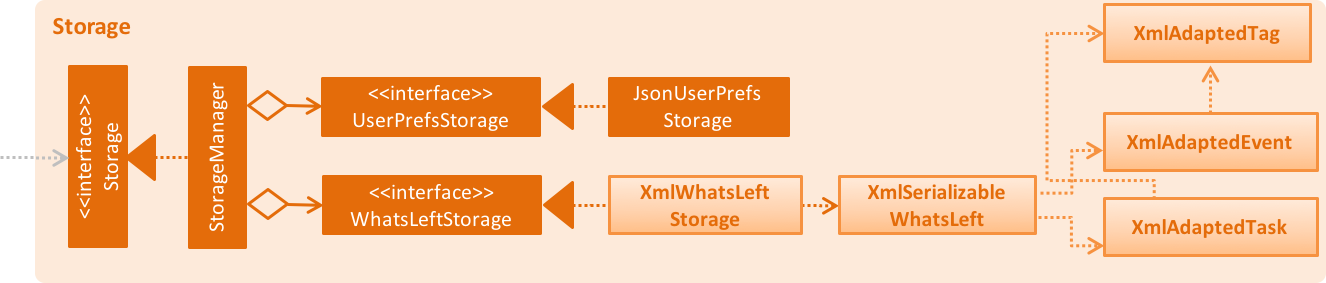
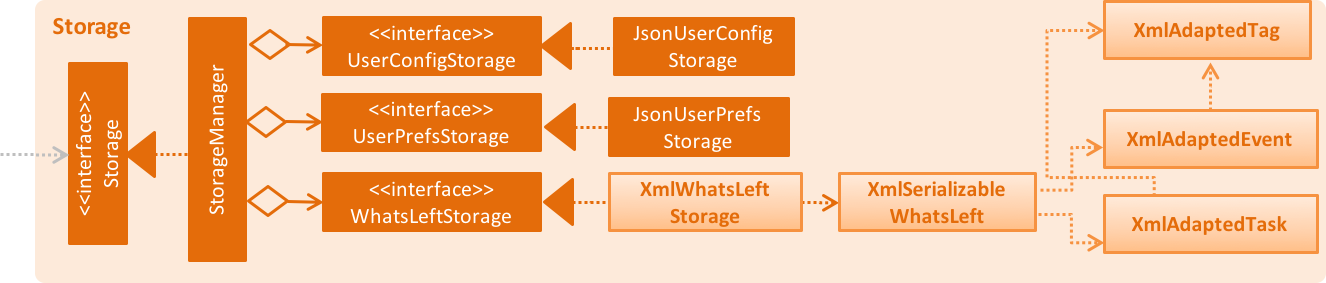
Apply Facade principle to UserConfigStorage component of Storage 	- Hide it behind StorageManager class

diff --git a/src/main/java/seedu/whatsleft/storage/StorageManager.java b/src/main/java/seedu/whatsleft/storage/StorageManager.java
@@ -7,6 +7,7 @@ import java.util.logging.Logger;
 import com.google.common.eventbus.Subscribe;
 
 import seedu.whatsleft.commons.core.ComponentManager;
+import seedu.whatsleft.commons.core.Config;
 import seedu.whatsleft.commons.core.LogsCenter;
 import seedu.whatsleft.commons.events.model.ConfigChangedEvent;
 import seedu.whatsleft.commons.events.model.WhatsLeftChangedEvent;
@@ -23,15 +24,19 @@ public class StorageManager extends ComponentManager implements Storage {
     private static final Logger logger = LogsCenter.getLogger(StorageManager.class);
     private WhatsLeftStorage whatsLeftStorage;
     private UserPrefsStorage userPrefsStorage;
+    private UserConfigStorage userConfigStorage;
 
-    public StorageManager(WhatsLeftStorage whatsLeftStorage, UserPrefsStorage userPrefsStorage) {
+    public StorageManager(WhatsLeftStorage whatsLeftStorage, UserPrefsStorage userPrefsStorage,
+            UserConfigStorage userConfigStorage) {
         super();
         this.whatsLeftStorage = whatsLeftStorage;
         this.userPrefsStorage = userPrefsStorage;
+        this.userConfigStorage = userConfigStorage;
     }
 
-    public StorageManager(String whatsLeftFilePath, String userPrefsFilePath) {
-        this(new XmlWhatsLeftStorage(whatsLeftFilePath), new JsonUserPrefsStorage(userPrefsFilePath));
+    public StorageManager(String whatsLeftFilePath, String userPrefsFilePath, String userConfigStorage) {
+        this(new XmlWhatsLeftStorage(whatsLeftFilePath), new JsonUserPrefsStorage(userPrefsFilePath),
+                new JsonUserConfigStorage(userConfigStorage));
     }
 
     // ================ UserPrefs methods ==============================
@@ -96,5 +101,15 @@ public class StorageManager extends ComponentManager implements Storage {
         String newLocation = cce.data.getWhatsLeftFilePath();
         logger.info(LogsCenter.getEventHandlingLogMessage(cce, "Setting save location to " + newLocation));
         setWhatsLeftFilePath(newLocation);
+    }
+    // ================ WhatsLeft methods ==============================
+    @Override
+    public Optional<Config> readUserConfig() throws DataConversionException, IOException {
+        return userConfigStorage.readUserConfig();
+    }
+
+    @Override
+    public void saveUserConfig(Config config) throws IOException {
+        userConfigStorage.saveUserConfig(config);
     }
 }

diff --git a/src/main/java/seedu/whatsleft/logic/commands/ReadCommand.java b/src/main/java/seedu/whatsleft/logic/commands/ReadCommand.java
@@ -14,7 +14,6 @@ import seedu.whatsleft.commons.exceptions.DataConversionException;
 import seedu.whatsleft.logic.commands.exceptions.CommandException;
 import seedu.whatsleft.model.ReadOnlyWhatsLeft;
 import seedu.whatsleft.model.WhatsLeft;
-import seedu.whatsleft.storage.JsonUserConfigStorage;
 import seedu.whatsleft.storage.Storage;
 
 //@@author A0121668A
@@ -40,11 +39,9 @@ public class ReadCommand extends Command {
     private String newFilePath;
     private static Config config;
     private static Storage storage;
-    private static JsonUserConfigStorage jsonUserConfigStorage;
 
     public ReadCommand(String filePath) {
         this.newFilePath = filePath;
-        jsonUserConfigStorage = new JsonUserConfigStorage(Config.DEFAULT_CONFIG_FILE);
     }
 
     public static void setStorage(Storage storageToSet) {
@@ -101,7 +98,7 @@ public class ReadCommand extends Command {
      */
     private void saveConfig() throws CommandException {
         try {
-            jsonUserConfigStorage.saveUserConfig(config);
+            storage.saveUserConfig(config);
         } catch (IOException e) {
             throw new CommandException(MESSAGE_SAVE_CONFIG_ERROR);
         }

diff --git a/src/main/java/seedu/whatsleft/logic/commands/SaveCommand.java b/src/main/java/seedu/whatsleft/logic/commands/SaveCommand.java
@@ -8,7 +8,6 @@ import seedu.whatsleft.commons.core.Messages;
 import seedu.whatsleft.commons.events.model.ConfigChangedEvent;
 import seedu.whatsleft.logic.commands.exceptions.CommandException;
 import seedu.whatsleft.model.ReadOnlyWhatsLeft;
-import seedu.whatsleft.storage.JsonUserConfigStorage;
 import seedu.whatsleft.storage.Storage;
 
 //@@author A0121668A
@@ -30,11 +29,9 @@ public class SaveCommand extends Command {
     private String newFilePath;
     private static Config config;
     private static Storage storage;
-    private static JsonUserConfigStorage jsonUserConfigStorage;
 
     public SaveCommand(String filePath) {
         this.newFilePath = filePath;
-        jsonUserConfigStorage = new JsonUserConfigStorage(Config.DEFAULT_CONFIG_FILE);
     }
 
     public static void setStorage(Storage storageToSet) {
@@ -65,7 +62,7 @@ public class SaveCommand extends Command {
 
     private void saveConfig() throws CommandException {
         try {
-            jsonUserConfigStorage.saveUserConfig(config);
+            storage.saveUserConfig(config);
         } catch (IOException e) {
             throw new CommandException(MESSAGE_SAVE_CONFIG_ERROR);
         }

diff --git a/src/test/java/seedu/whatsleft/storage/StorageManagerTest.java b/src/test/java/seedu/whatsleft/storage/StorageManagerTest.java
@@ -29,7 +29,7 @@ public class StorageManagerTest {
 
     @Before
     public void setUp() {
-        storageManager = new StorageManager(getTempFilePath("ab"), getTempFilePath("prefs"));
+        storageManager = new StorageManager(getTempFilePath("ab"), getTempFilePath("prefs"), getTempFilePath("config"));
     }
 
 
@@ -74,7 +74,8 @@ public class StorageManagerTest {
     public void handleWhatsLeftChangedEventExceptionThrownEventRaised() throws IOException {
         // Create a StorageManager while injecting a stub that  throws an exception when the save method is called
         Storage storage = new StorageManager(new XmlWhatsLeftStorageExceptionThrowingStub("dummy"),
-                                             new JsonUserPrefsStorage("dummy"));
+                                             new JsonUserPrefsStorage("dummy"),
+                                             new JsonUserConfigStorage("dummy"));
         EventsCollector eventCollector = new EventsCollector();
         storage.handleWhatsLeftChangedEvent(new WhatsLeftChangedEvent(new WhatsLeft()));
         assertTrue(eventCollector.get(0) instanceof DataSavingExceptionEvent);

diff --git a/src/test/java/seedu/whatsleft/logic/LogicManagerTest.java b/src/test/java/seedu/whatsleft/logic/LogicManagerTest.java
@@ -96,7 +96,9 @@ public class LogicManagerTest {
         model = new ModelManager();
         String tempWhatsLeftFile = saveFolder.getRoot().getPath() + "TempWhatsLeft.xml";
         String tempPreferencesFile = saveFolder.getRoot().getPath() + "TempPreferences.json";
-        logic = new LogicManager(model, new StorageManager(tempWhatsLeftFile, tempPreferencesFile));
+        String tempConfigurationFile = saveFolder.getRoot().getPath() + "TempConfiguration.json";
+        logic = new LogicManager(model, new StorageManager(tempWhatsLeftFile, tempPreferencesFile,
+                tempConfigurationFile));
         EventsCenter.getInstance().registerHandler(this);
 
         latestSavedWhatsLeft = new WhatsLeft(model.getWhatsLeft()); // last saved assumed to be up to date

diff --git a/src/test/java/guitests/FinishCommandTest.java b/src/test/java/guitests/FinishCommandTest.java
@@ -27,7 +27,7 @@ public class FinishCommandTest extends WhatsLeftGuiTest {
         assertFinishTaskSuccess(lastTaskToFinish, currentTaskList, currentEventList);
 
         /** finish task in the middle of the list panel */
-        int middleTaskToFinish = currentTaskList.length;
+        int middleTaskToFinish = currentTaskList.length / 2;
         assertFinishTaskSuccess(middleTaskToFinish, currentTaskList, currentEventList);
 
         /** invalid index */

diff --git a/src/main/java/seedu/whatsleft/MainApp.java b/src/main/java/seedu/whatsleft/MainApp.java
@@ -55,7 +55,8 @@ public class MainApp extends Application {
         super.init();
 
         config = initConfig(getApplicationParameter("config"));
-        storage = new StorageManager(config.getWhatsLeftFilePath(), config.getUserPrefsFilePath());
+        storage = new StorageManager(config.getWhatsLeftFilePath(), config.getUserPrefsFilePath(),
+                Config.DEFAULT_CONFIG_FILE);
 
         userPrefs = initPrefs(config);
 

diff --git a/src/main/java/seedu/whatsleft/storage/Storage.java b/src/main/java/seedu/whatsleft/storage/Storage.java
@@ -12,7 +12,7 @@ import seedu.whatsleft.model.UserPrefs;
 /**
  * API of the Storage component
  */
-public interface Storage extends WhatsLeftStorage, UserPrefsStorage {
+public interface Storage extends WhatsLeftStorage, UserPrefsStorage, UserConfigStorage {
 
     @Override
     Optional<UserPrefs> readUserPrefs() throws DataConversionException, IOException;

diff --git a/src/main/java/seedu/whatsleft/storage/LocalDateAdapter.java b/src/main/java/seedu/whatsleft/storage/LocalDateAdapter.java
@@ -4,7 +4,7 @@ import java.time.LocalDate;
 import javax.xml.bind.annotation.adapters.XmlAdapter;
 
 //@@author A0121668A
-/*
+/**
  * Adapter used for marshaling LocalDate using JAXB
  */
 public class LocalDateAdapter extends XmlAdapter<String, LocalDate> {

diff --git a/src/main/java/seedu/whatsleft/storage/LocalTimeAdapter.java b/src/main/java/seedu/whatsleft/storage/LocalTimeAdapter.java
@@ -4,7 +4,7 @@ import java.time.LocalTime;
 import javax.xml.bind.annotation.adapters.XmlAdapter;
 
 //@@author A0121668A
-/*
+/**
  * Adapter used for marshaling LocalTime using JAXB
  */
 public class LocalTimeAdapter extends XmlAdapter<String, LocalTime> {
